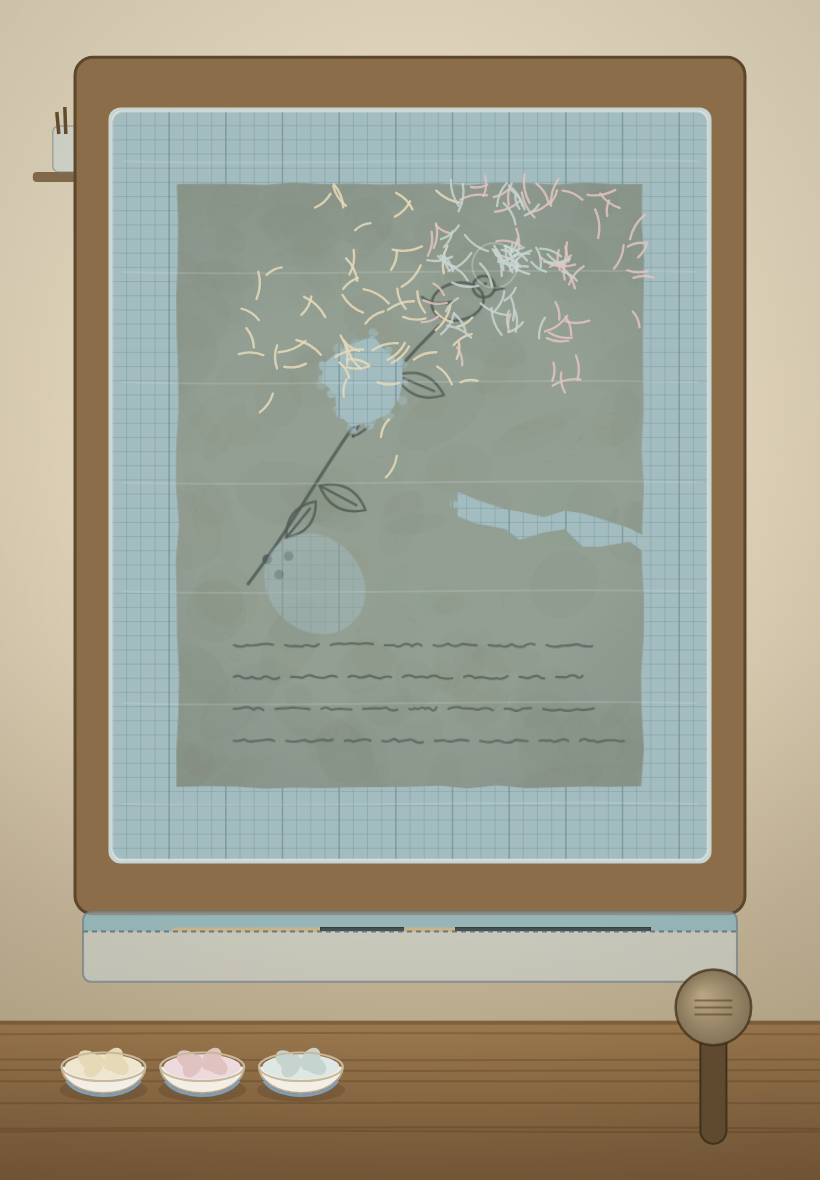
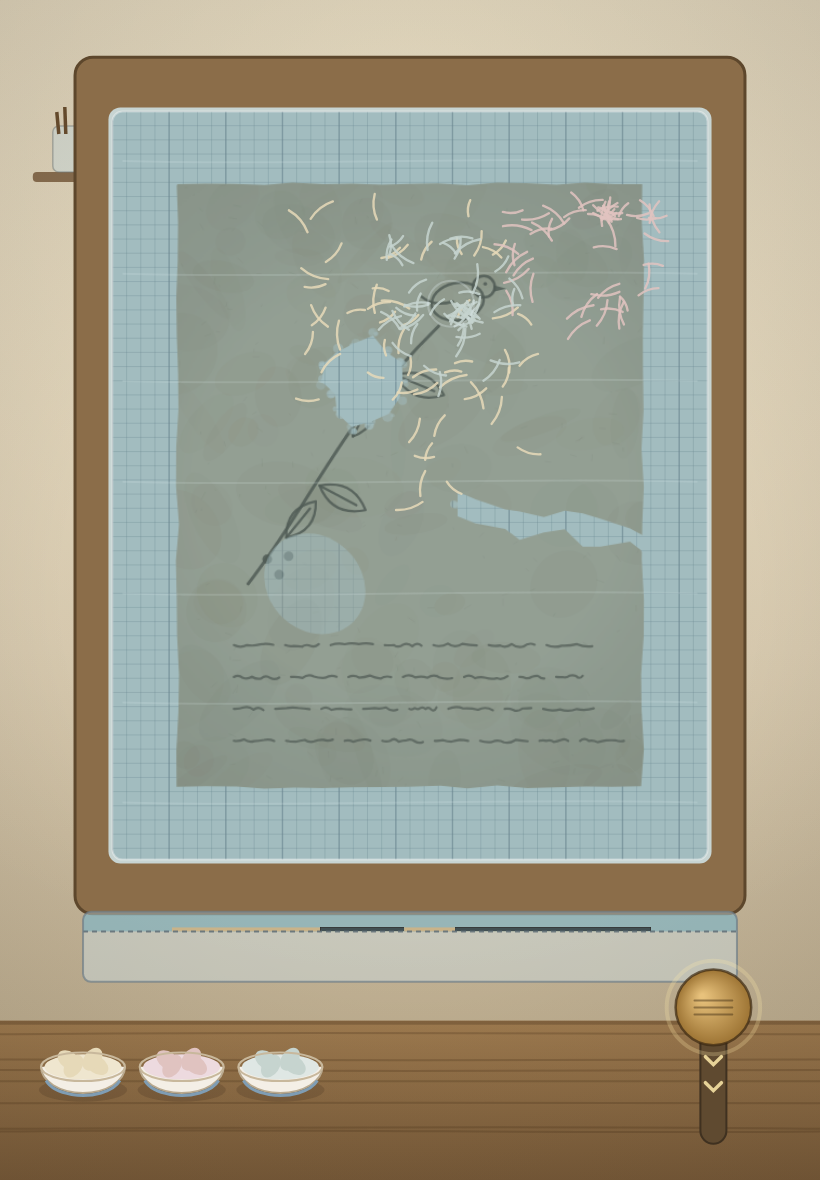
ビジュアル監査の指摘対応
- 縦画面の乾燥シーンで窓を小さく上部へ移動（シートとの重なり解消）
- 吸引中に水際が壁から退くタイドラインを追加（水位低下の視覚手掛かり）
- 壁反発マージンを拡大し、分散後に繊維が槽縁に帯状残留するのを軽減
- 乾燥後の新繊維パッチの明度を上げ視認性を改善
- 古い例外スクリーンショットを削除

Claude-Session: https://claude.ai/code/session_01Use8KRgFAipSAgKVPL5DUS

diff --git a/src/scenes_tank.js b/src/scenes_tank.js
@@ -477,6 +477,21 @@ function makeTankScene(free) {
           ctx.stroke();
         }
       }
+      // receding tide: as the level drops, wet marks pull away from the walls
+      if (lvl < 0.98 && lvl > 0.02) {
+        const inset = (1 - lvl) * Math.min(la.inner.w, la.inner.h) * 0.045;
+        ctx.strokeStyle = `rgba(120,170,182,${0.35 + 0.25 * lvl})`;
+        ctx.lineWidth = 2.5;
+        rr(ctx, la.inner.x + inset, la.inner.y + inset, la.inner.w - inset * 2, la.inner.h - inset * 2, 10);
+        ctx.stroke();
+        // dark damp band left behind on the walls
+        ctx.strokeStyle = 'rgba(90,110,118,0.18)';
+        ctx.lineWidth = inset > 2 ? inset : 0;
+        if (inset > 2) {
+          rr(ctx, la.inner.x + inset / 2, la.inner.y + inset / 2, la.inner.w - inset, la.inner.h - inset, 10);
+          ctx.stroke();
+        }
+      }
       // last thin film clinging near deficits
       if (s.draining && s.level > 0 && s.level < 0.14 && !free && G.paper) {
         for (const d of G.paper.damages) {

diff --git a/src/ui.js b/src/ui.js
@@ -32,8 +32,11 @@ function paintRoom(g, L, variant) {
   g.fillRect(0, 0, W, H);
 
   if (variant === 'window') {
-    // tall warm window, light rays
-    const wx = W * 0.62, wy = H * 0.06, ww = W * 0.30, wh = H * 0.42;
+    // tall warm window, light rays (higher & smaller in portrait so the
+    // drying sheet doesn't cut across it)
+    const portrait = H >= W;
+    const wx = W * (portrait ? 0.66 : 0.62), wy = H * (portrait ? 0.025 : 0.06);
+    const ww = W * (portrait ? 0.26 : 0.30), wh = H * (portrait ? 0.20 : 0.42);
     g.fillStyle = '#8a6f50';
     rr(g, wx - 8, wy - 8, ww + 16, wh + 16, 14); g.fill();
     const sky = g.createLinearGradient(0, wy, 0, wy + wh);

diff --git a/src/fibers.js b/src/fibers.js
@@ -166,7 +166,7 @@ export class FiberSim {
       f.vy += (Math.random() - 0.5) * 0.10 * dt;
       // repulsion from tank walls keeps fibers over the sheet; also damp
       // wall-ward velocity so fibers can't stay pinned against the glass
-      const WM = 0.12;
+      const WM = 0.14;
       if (f.x < WM) { f.vx += (WM - f.x) * 5 * dt; if (f.vx < 0) f.vx *= Math.pow(0.03, dt); }
       if (f.x > 1 - WM) { f.vx -= (f.x - (1 - WM)) * 5 * dt; if (f.vx > 0) f.vx *= Math.pow(0.03, dt); }
       if (f.y < WM) { f.vy += (WM - f.y) * 5 * dt; if (f.vy < 0) f.vy *= Math.pow(0.03, dt); }

diff --git a/src/scenes_finish.js b/src/scenes_finish.js
@@ -298,7 +298,7 @@ export const sceneDry = {
   enter() { this.strokeGrab = null; this.gustT = 0; this.flipGrab = null; this.showT = 0; this.driedChime = false; },
   lay(L) {
     const { W, H, portrait } = L;
-    const page = fitRect(W * (portrait ? 0.5 : 0.42), portrait ? H * 0.5 : H * 0.52, W * (portrait ? 0.74 : 0.4), H * 0.5, 440 / 580);
+    const page = fitRect(W * (portrait ? 0.5 : 0.42), portrait ? H * 0.56 : H * 0.52, W * (portrait ? 0.74 : 0.4), H * 0.5, 440 / 580);
     return { page, corner: { x: page.x + page.w - 6, y: page.y + page.h - 6 } };
   },
   down(p) {

diff --git a/src/paper.js b/src/paper.js
@@ -293,7 +293,7 @@ export class Paper {
   // when one deficit reaches full (97% deposited grain by grain), its thin
   // membrane closes: a translucent damage-local pulp wash — a disclosed
   // finishing touch, never a swap to a finished image (docs/LEAFCASTING.md)
-  sealDamage(d, col = '#ece2c8') {
+  sealDamage(d, col = '#f2ead6') {
     const c = this.deposit.getContext('2d');
     c.save();
     c.clip(d.path);
